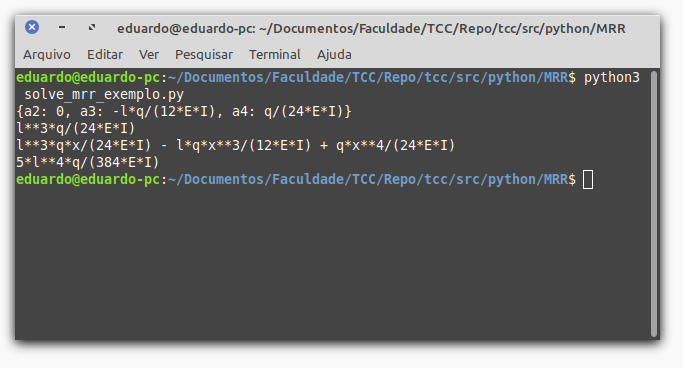
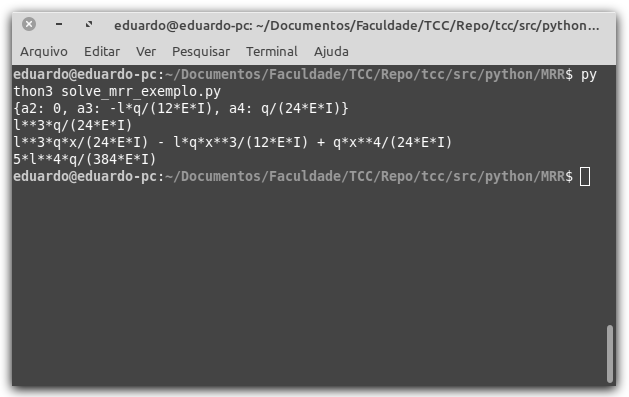
Mudança nas figuras do terminal linux executando código

Changed region(s): [[0.0, 0.0, 0.9968, 1.0]]

diff --git a/src/latex/trabalho.tex b/src/latex/trabalho.tex
@@ -2148,7 +2148,7 @@ O Código \ref{py_code_solve_mrr_ex_livro} é executado rapidamente e o resultad
 \begin{figure}[h]
 	\caption{Resultado Apresentado pelo Código \ref{py_code_solve_mrr_ex_livro}.}
 	\centering
-	\includegraphics[scale=0.6]{../figuras/code/code_solve_mrr_exemplo_livro.png}
+	\includegraphics[scale=2.5]{../figuras/code/code_solve_mrr_exemplo_livro.png}
 	\label{fig:code_solve_mrr_exemplo_livro}
 	\legend{\ABNTEXfontereduzida Fonte: Elaborada pelo autor, 2019.}
 \end{figure}
@@ -2179,7 +2179,7 @@ Os Códigos \ref{py_code_solve_mrr_ex_livro}, \ref{py_code_solve_mrr_isolatedcoe
 \begin{figure}[h]
 	\caption{Resultado apresentado pelos Códigos \ref{py_code_solve_mrr_ex_livro}, \ref{py_code_solve_mrr_isolatedcoef_ex_livro} e \ref{py_code_solve_mrr_maxdef_ex_livro}.}
 	\centering
-	\includegraphics[scale=2]{../figuras/code/code_solve_mrr_exec_complete.png}
+	\includegraphics[scale=2.5]{../figuras/code/code_solve_mrr_exec_complete.png}
 	\label{fig:code_solve_mrr_exec_complete}
 	\legend{\ABNTEXfontereduzida Fonte: Elaborada pelo autor, 2019.}
 \end{figure}

diff --git a/src/python/MRR/solve_mrr_exemplo.py b/src/python/MRR/solve_mrr_exemplo.py
@@ -10,12 +10,12 @@ eq3 = integrate(12*E*I*(2*a2*x**2 + 6*a3*x**3 + 12*a4*x**4), (x, 0, l)) - integr
 
 sol = solve([eq1, eq2, eq3], [a2, a3, a4])
 print(sol)
-a1 = -a2*l - a3*l**2 - a4 * l**3
-a1 = a1.subs(a2, sol[a2])
-a1 = a1.subs(a3, sol[a3])
-a1 = a1.subs(a4, sol[a4])
-print(a1)
-v = a1*x + sol[a2]*x**2 + sol[a3]*x**3 + sol[a4]*x**4
-print(v)
-maxdef = v.subs(x, l/2)
-print(maxdef)
+#a1 = -a2*l - a3*l**2 - a4 * l**3
+#a1 = a1.subs(a2, sol[a2])
+#a1 = a1.subs(a3, sol[a3])
+#a1 = a1.subs(a4, sol[a4])
+#print(a1)
+#v = a1*x + sol[a2]*x**2 + sol[a3]*x**3 + sol[a4]*x**4
+#print(v)
+#maxdef = v.subs(x, l/2)
+#print(maxdef)
